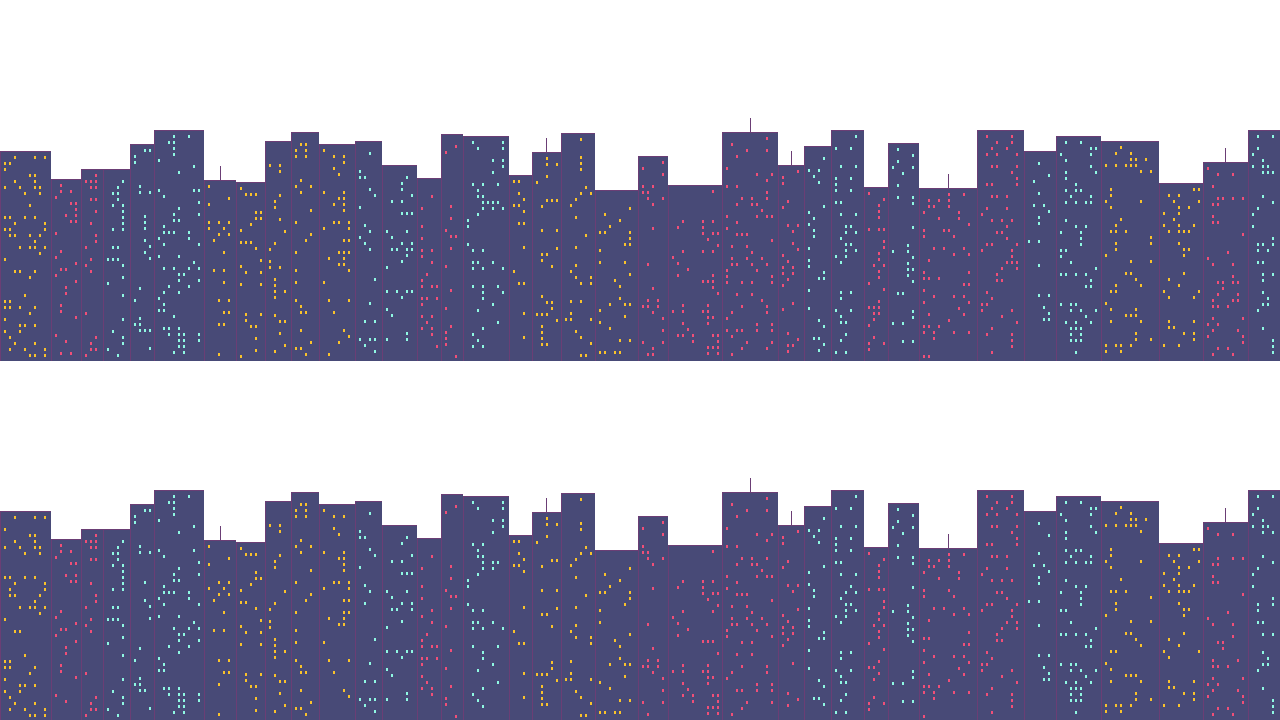
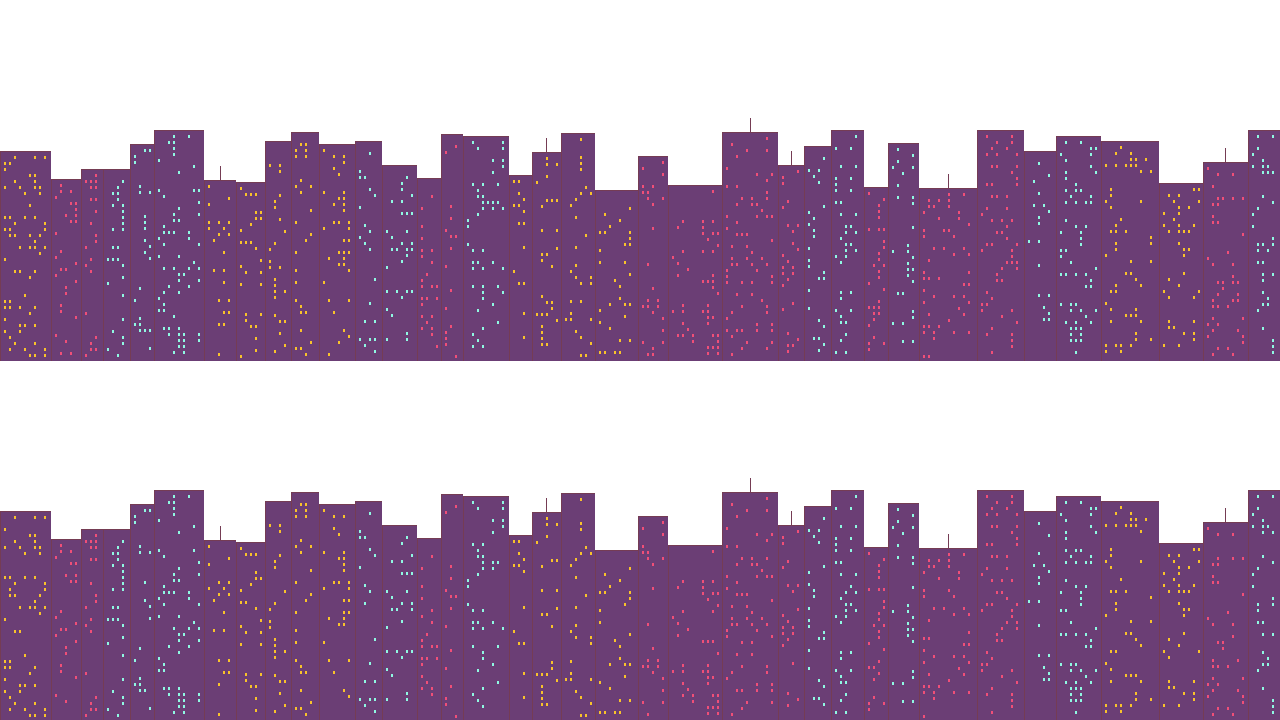
M15 group 2, batch C: Neon Circuit's towers and Dune Bazaar's dunes no longer use the playfield's colours (Dune Bazaar is excused from the haze rule, with the reason), and the depth report passes on all eleven stages (D-065)

diff --git a/src/isofightr/render/backdrop.py b/src/isofightr/render/backdrop.py
@@ -118,9 +118,9 @@ GLOW: Final[Mood] = Mood(
 """A city's night: dark overhead, the streets' light staining the horizon (Neon Circuit)."""
 HAZE: Final[Mood] = Mood(
     sky=("4d9be6", "8fd3ff", "c7dcd0", "fdcbb0", "fca790"),
-    cloud=("ffffff", "fdcbb0", "fca790"),
-    island_top="fdcbb0",
-    island_side=("fbb954", "e6904e"),
+    cloud=("ffffff", "fca790", "eaaded"),
+    island_top="fca790",
+    island_side=("fca790", "f68181"),
     ruin="ffffff",
 )
 """A hot afternoon: blue overhead, bleached and dusty toward the ground (Dune Bazaar)."""
@@ -407,11 +407,13 @@ def cloud_bank(
     return image
 
 
-def birds(seed: int, width: int = LAYER_WIDTH, height: int = NATIVE_H) -> Image.Image:
+def birds(
+    seed: int, width: int = LAYER_WIDTH, height: int = NATIVE_H, colour_name: str = BIRD_COLOUR
+) -> Image.Image:
     """Return a flock of far-off birds as two frames stacked top to bottom (wings up, wings
     level), for a ``[[background]]`` layer with ``frames = 2``."""
     rng = random.Random(seed)
-    colour = (*hex_rgb(BIRD_COLOUR), 255)
+    colour = (*hex_rgb(colour_name), 255)
     image = Image.new("RGBA", (width, height * len(BIRD_FRAMES)))
     spots = []
     lead_x, lead_y = rng.randint(80, width - 80), rng.randint(*BIRD_BAND)
@@ -1133,12 +1135,14 @@ PAINTERS["peaks"] = paint_peaks
 
 # --- the city at night (Neon Circuit) ------------------------------------------------------
 
-FAR_TOWERS: Final[tuple[str, str]] = ("484a77", "6b3e75")
-NEAR_TOWERS: Final[tuple[str, str]] = ("2e222f", "323353")
-"""A row of towers: their walls, and the edge the city's glow catches."""
+FAR_TOWERS: Final[tuple[str, str]] = ("6b3e75", "753c54")
+NEAR_TOWERS: Final[tuple[str, str]] = ("694f62", "7a3045")
+"""A row of towers: their walls, and the edge the city's glow catches. Mauves lit by the
+glow behind them (decision D-065): not the roof's own slate and navy, and nearer the
+sky's colour the further off they stand."""
 WINDOW_COLOURS: Final[tuple[str, ...]] = ("f9c22b", "f9c22b", "8ff8e2", "f04f78")
 CITY_FRAMES: Final[int] = 2
-TRAFFIC_COLOURS: Final[tuple[str, str]] = ("f04f78", "8ff8e2")
+TRAFFIC_COLOURS: Final[tuple[str, str]] = ("f9c22b", "8ff8e2")
 TRAFFIC: Final[int] = 9
 
 
@@ -1216,9 +1220,12 @@ PAINTERS["city"] = paint_city
 # --- dunes and a far city (Dune Bazaar) ----------------------------------------------------
 
 HIGH_SUN: Final[tuple[int, int]] = (470, 58)
-FAR_DUNES: Final[tuple[str, str]] = ("fdcbb0", "fbb954")
-NEAR_DUNES: Final[tuple[str, str]] = ("fbb954", "e6904e")
-"""A line of dunes: the colour of its sunlit crest, then of its slopes."""
+FAR_DUNES: Final[tuple[str, str]] = ("ffffff", "fca790")
+NEAR_DUNES: Final[tuple[str, str]] = ("fca790", "f68181")
+"""A line of dunes: the colour of its sunlit crest, then of its slopes. The far line is the
+colour the sky has at the horizon, and the near one a step pinker: the dunes dissolve in the
+heat, and none is the paving's own sand (decision D-065)."""
+VULTURE_COLOUR: Final[str] = "9e4539"
 CITY_COLOURS: Final[tuple[str, str]] = ("fca790", "f68181")
 """The far city in the haze: its sunlit walls, its shaded ones."""
 
@@ -1283,9 +1290,10 @@ def paint_dunes(mood: Mood, seed: int) -> dict[str, Image.Image]:
     return {
         "bg_0_sky.png": sunny_sky(mood, HIGH_SUN),
         "bg_1_far_clouds.png": clouds(mood, seed, 4, (40, 110), (9, 13)),
-        "bg_2_city.png": far_city(seed + 1, 250),
-        "bg_3_far_dunes.png": hills(FAR_DUNES, seed + 2, 258, 12),
-        "bg_4_near_dunes.png": hills(NEAR_DUNES, seed + 3, 304, 18),
+        "bg_2_birds.png": birds(seed + 4, colour_name=VULTURE_COLOUR),
+        "bg_3_city.png": far_city(seed + 1, 250),
+        "bg_4_far_dunes.png": hills(FAR_DUNES, seed + 2, 258, 12),
+        "bg_5_near_dunes.png": hills(NEAR_DUNES, seed + 3, 304, 18),
     }
 
 

diff --git a/tests/test_backdrop_rules.py b/tests/test_backdrop_rules.py
@@ -29,12 +29,10 @@ from isofightr.data.backdrop_rules import (
 )
 from isofightr.data.stage_loader import list_stage_ids, load_stage
 
-NOT_YET_REPAINTED = {
-    "dune_bazaar",
-    "neon_circuit",
-}
-"""Stages whose backdrops still break a rule: M15 group 2 repaints them in three batches and
-takes each off this list as it passes. Never add a stage here."""
+NOT_YET_REPAINTED: set[str] = set()
+"""Stages whose backdrops still break a rule. M15 group 2 repainted all eleven in three
+batches and emptied this list; it stays so that the test below keeps its two halves. Never
+add a stage here: a stage that cannot pass a rule is argued for in ``EXCUSED``."""
 
 GRASS, DIRT, WHITE = (0x91, 0xDB, 0x69), (0x9E, 0x45, 0x39), (255, 255, 255)
 SKY, PALE, NAVY = (0x4D, 0x9B, 0xE6), (0x8F, 0xD3, 0xFF), (0x32, 0x33, 0x53)
@@ -189,7 +187,7 @@ def test_frostpeak_is_excused_from_the_colours_rule_and_from_nothing_else() -> N
     its mountains may share them; they still have to be flat and near the sky's colour."""
     from isofightr.data.backdrop_rules import EXCUSED
 
-    assert EXCUSED == {"frostpeak": ("colours",)}
+    assert EXCUSED == {"frostpeak": ("colours",), "dune_bazaar": ("haze",)}
     reports = check_stage(load_stage("frostpeak"))
     peaks = [each for each in reports if "peaks" in each.image]
     assert len(peaks) == 2 and all(each.excused == ("colours",) for each in peaks)
@@ -209,3 +207,18 @@ def test_a_blend_is_an_ordered_dither_of_two_palette_colours() -> None:
     assert colour_table(mixed.crop((0, 8, 16, 16))) == {(9, 9, 9): 128}, "the rest untouched"
     mostly = blended(flat, {"010203": ("8fd3ff", "9babb2", 12)})
     assert colour_table(mostly)[(0x8F, 0xD3, 0xFF)] == 96
+
+
+def test_dune_bazaar_is_excused_from_the_haze_rule_and_from_nothing_else() -> None:
+    """Its paving is nearly the colour of the sky behind the island, so the haze rule leaves
+    no room; its dunes are the colour its sky has at the horizon (decision D-065)."""
+    reports = check_stage(load_stage("dune_bazaar"))
+    dunes = [each for each in reports if "dunes" in each.image]
+    assert len(dunes) == 2 and all(each.excused == ("haze",) and each.passed for each in dunes)
+    assert all(each.shared <= MAX_SHARED and each.contrast <= MAX_CONTRAST for each in dunes)
+    sky = Image.open("assets/stages/dune_bazaar/bg_0_sky.png").convert("RGB")
+    horizon = sky.getpixel((10, sky.height - 2))
+    far = Image.open("assets/stages/dune_bazaar/bg_4_far_dunes.png").convert("RGBA")
+    assert (*horizon, 255) in {colour for _, colour in far.getcolors() or []}, (
+        "the far dunes are the horizon's own colour"
+    )

diff --git a/src/isofightr/data/backdrop_rules.py b/src/isofightr/data/backdrop_rules.py
@@ -59,11 +59,19 @@ TILE_TOP: Final[tuple[int, int]] = (32, 16)
 SKY_WINDOW: Final[tuple[int, int, int, int]] = (160, 80, 480, 280)
 """The part of the sky picture the island stands in front of (left, top, right, bottom)."""
 RULES: Final[tuple[str, ...]] = ("colours", "contrast", "haze")
-EXCUSED: Final[dict[str, tuple[str, ...]]] = {"frostpeak": ("colours",)}
-"""Rules a stage is excused from, with the reason in the Decision Log (D-065). Frostpeak:
-every pale blue and grey of the palette is its own snow and ice, so mountains and cloud
-behind it cannot avoid them and still look like mountains and cloud. It still has to pass
-contrast and haze."""
+EXCUSED: Final[dict[str, tuple[str, ...]]] = {
+    "frostpeak": ("colours",),
+    "dune_bazaar": ("haze",),
+}
+"""Rules a stage is excused from, with the reason in the Decision Log (D-065).
+
+Frostpeak, ``colours``: every pale blue and grey of the palette is its own snow and ice, so
+mountains and cloud behind it cannot avoid them and still look like mountains and cloud.
+
+Dune Bazaar, ``haze``: its paving is nearly the colour of the sky behind the island, so the
+rule leaves almost no room, and none of the palette's free colours fits in it. Its dunes are
+painted in the colour its sky has at the horizon, where they stand, which the rule (it
+measures against the sky behind the island, blue) counts as far off."""
 Table = dict[Rgb, int]
 
 
